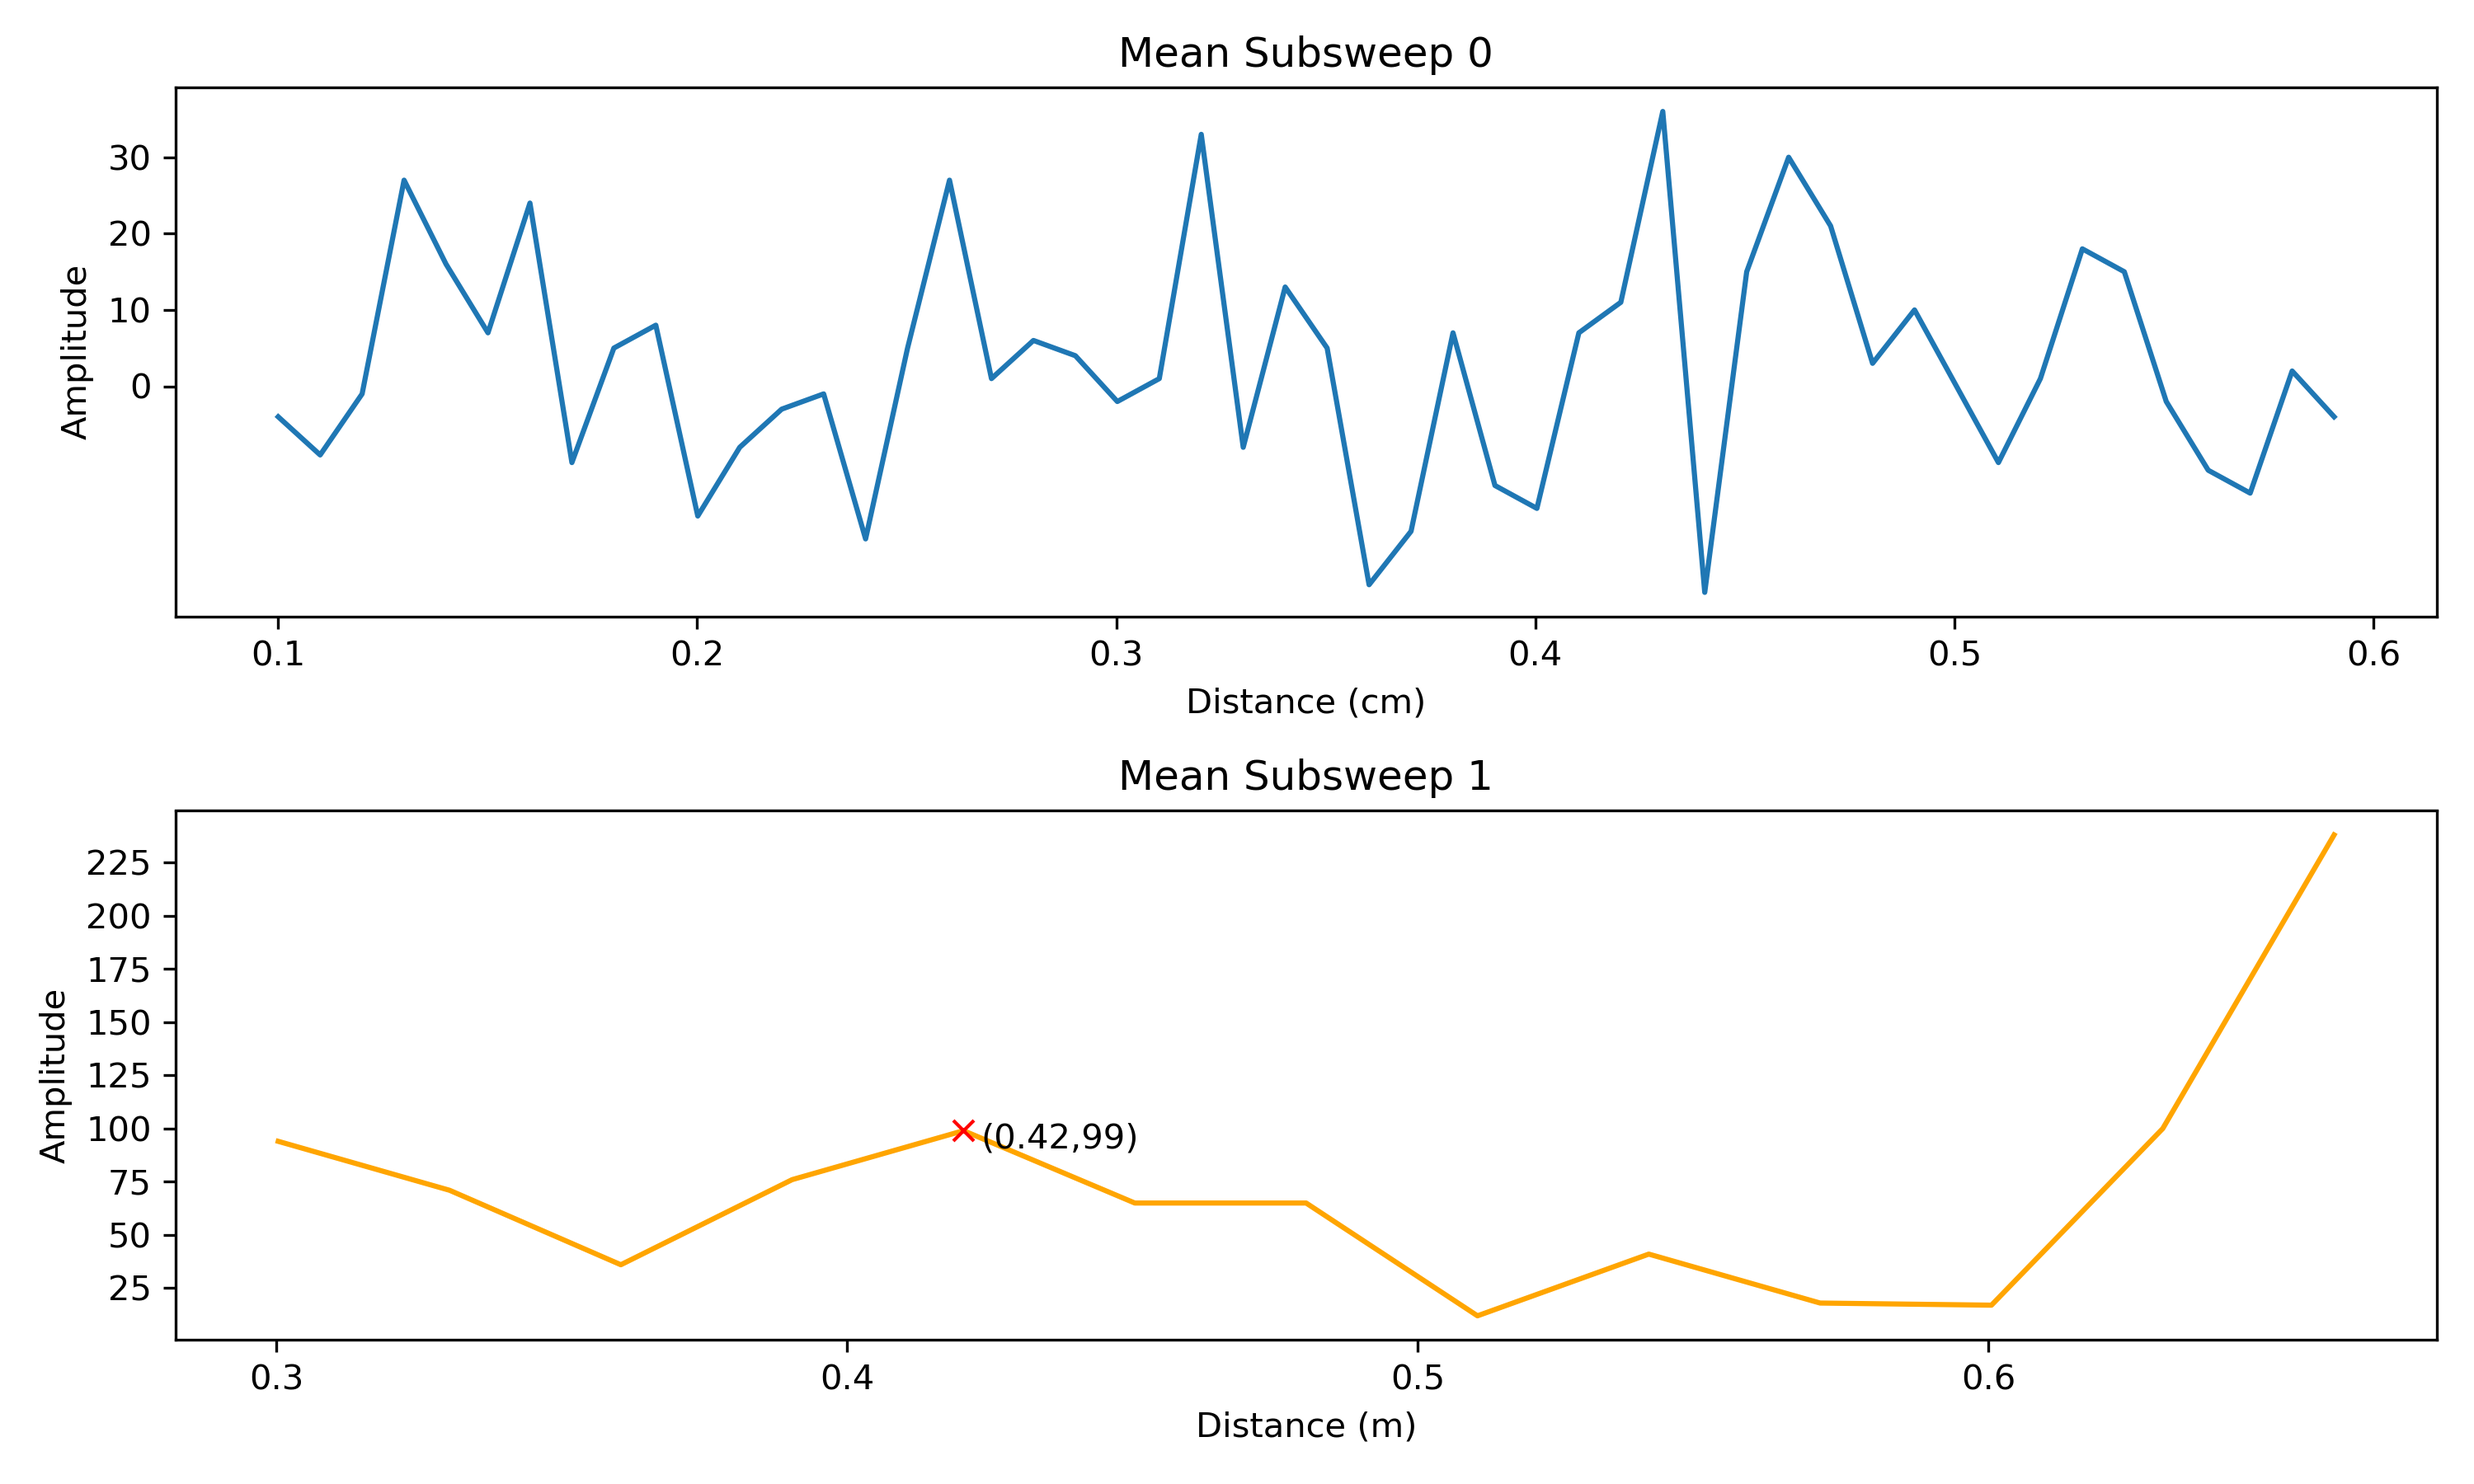
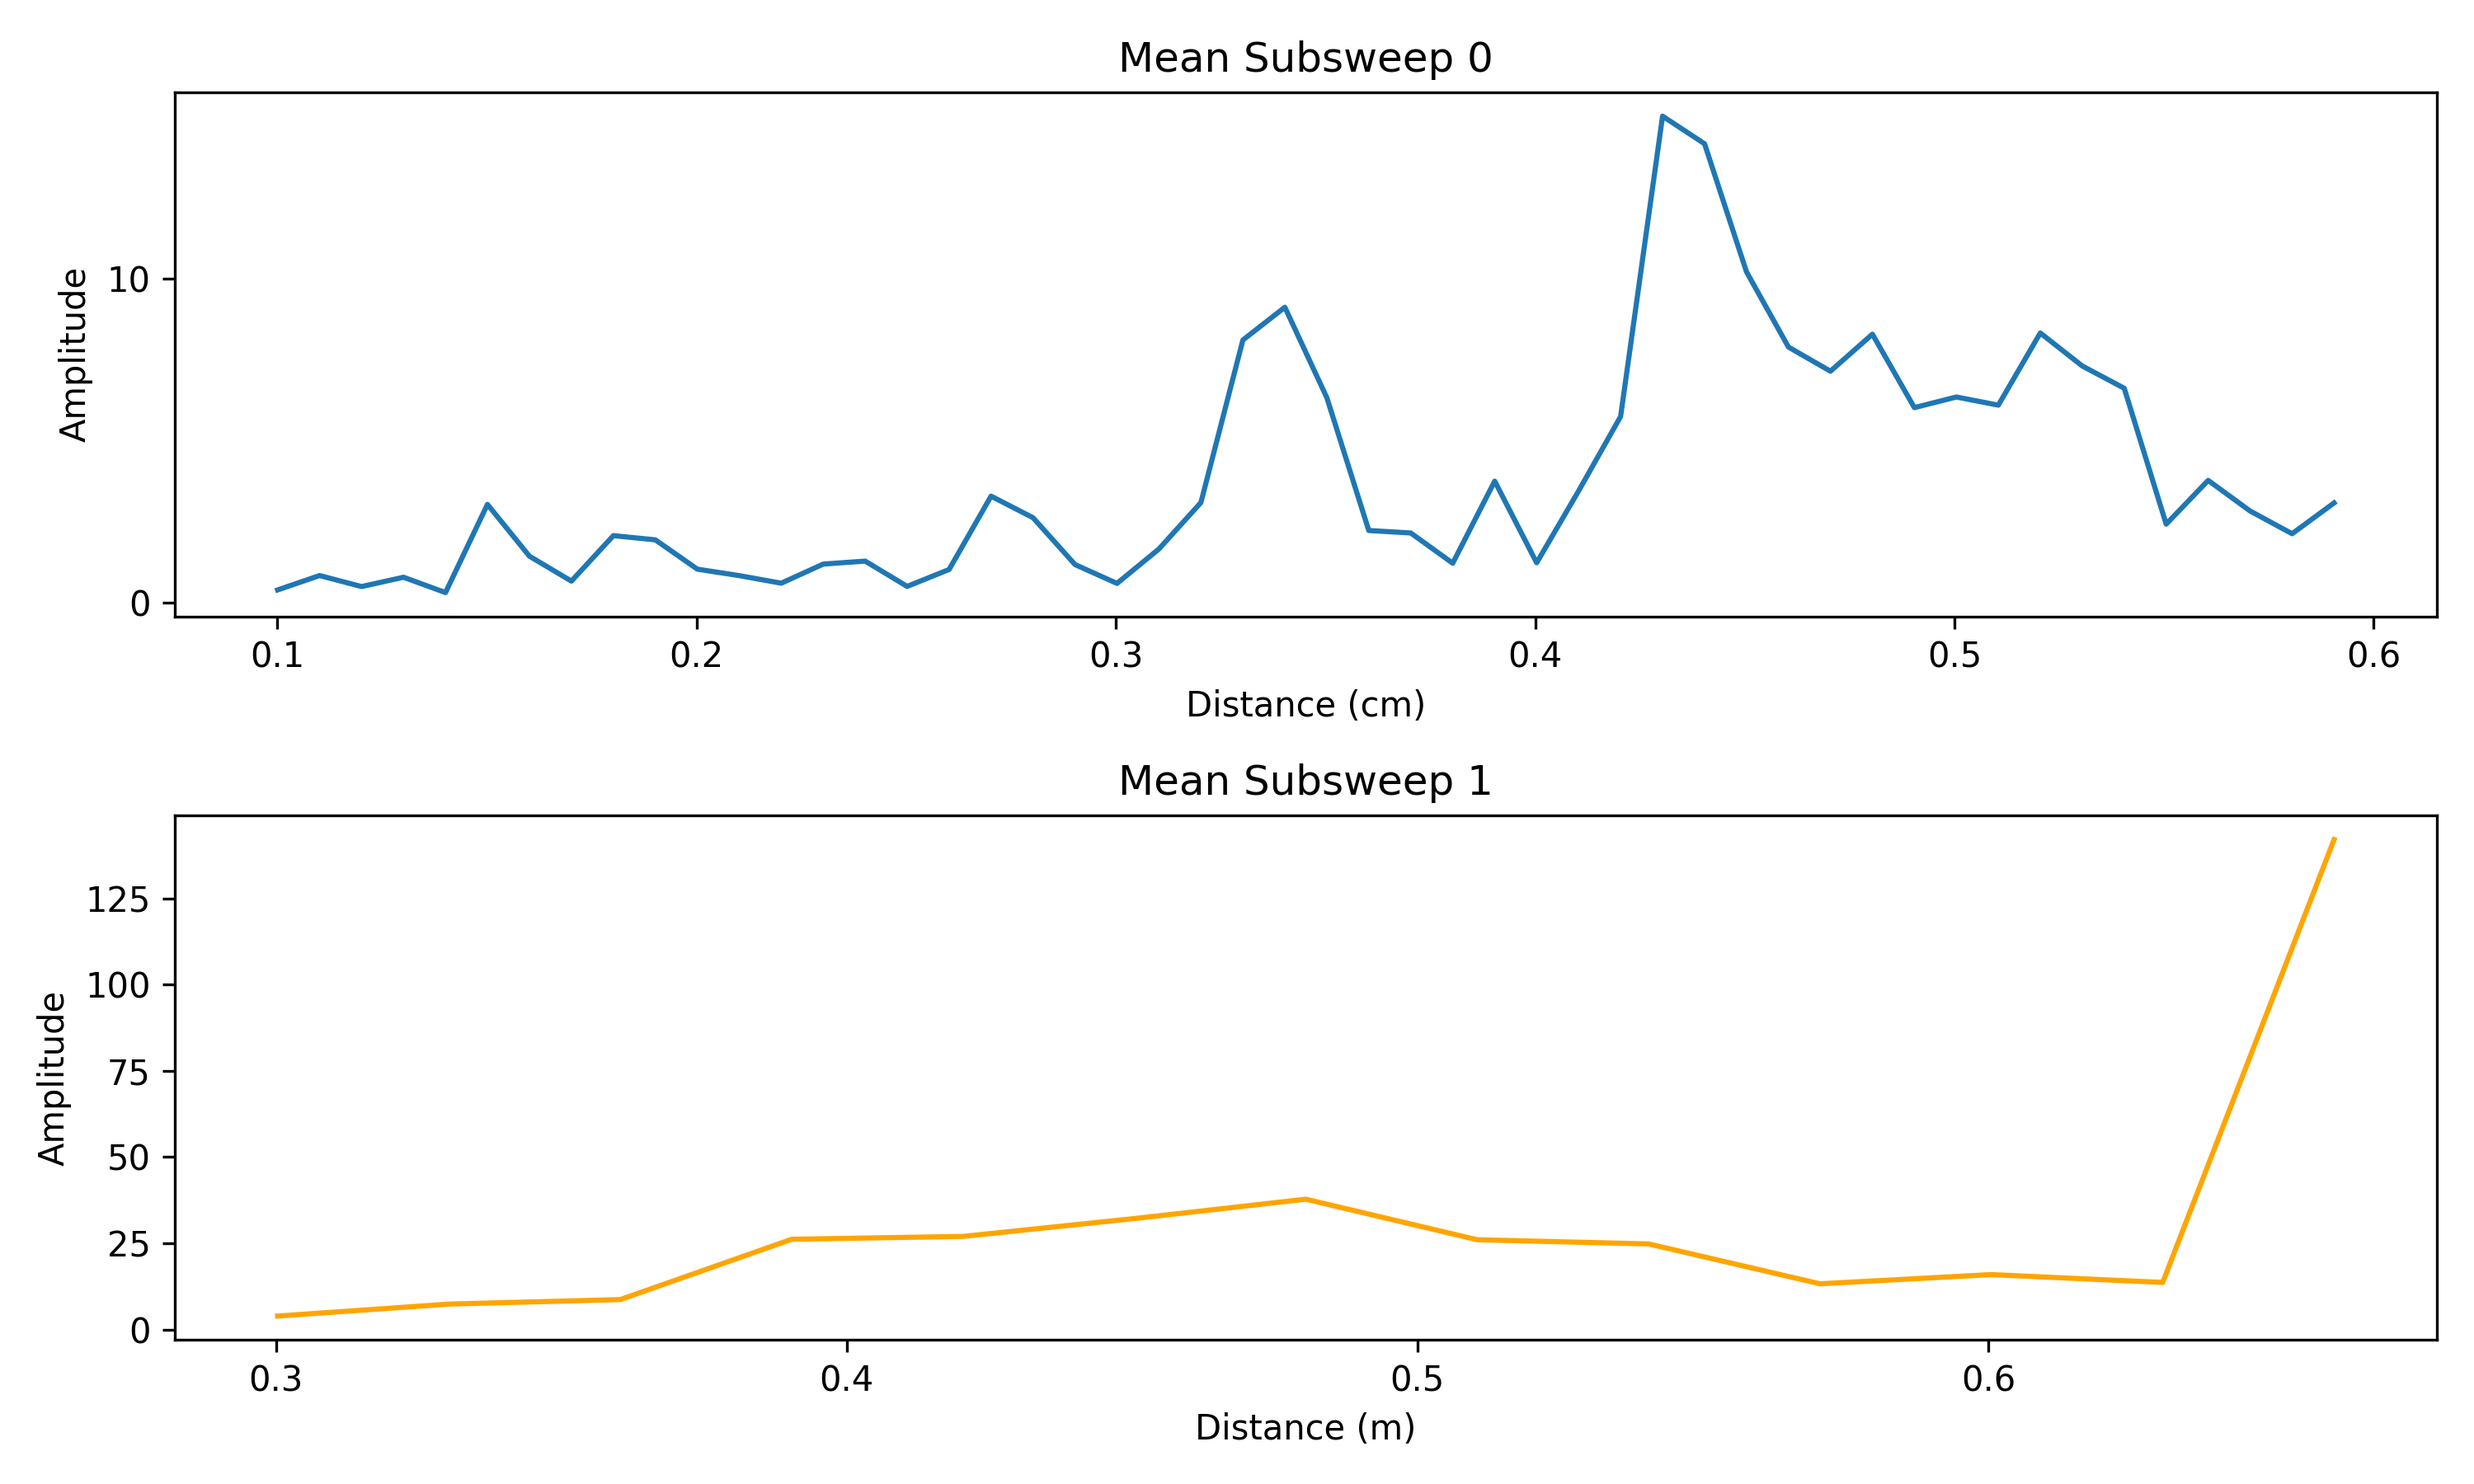
vector subtraction instead of raw amplitude for mean sweeps implemented

diff --git a/radar/data_plotting.py b/radar/data_plotting.py
@@ -1,29 +1,30 @@
 import matplotlib.pyplot as plt
 import numpy as np
 from scipy.signal import find_peaks
+import math
 
 fileName = "./output/t1_data"
 
 x0Axis = []
 x1Axis = []
-baselineY0Axis = []
-baselineY1Axis = []
 
 def getBaselineSweep(f):
-    baselineSubsweep0 = {}
-    baselineSubsweep1 = {}
+    subsweep0 = {}
+    subsweep1 = {}
     distanceXAxis = [];
     amplitudeSweep0 = [];
     amplitudeSweep1 = []
+    baselineSubsweep0 = {}
+    baselineSubsweep1 = {}
     distance = ""
-    amplitude = ""
+    IQVal = ""
     index = 0;
     subsweepIndex = 0
     with open(f) as file: 
         for x in file:
             chars = [*x]
             if chars[2] == 'd' or chars[0] == 'E':
-                break
+                continue
             if (chars[9].isdigit()):
                 subsweepIndex = int(chars[9])
             if chars[0].isdigit():
@@ -32,42 +33,36 @@ def getBaselineSweep(f):
                     distance += chars[y]
                 if (float(distance) < 0.1):
                     distance = ""
-                    amplitude = ""
+                    IQVal = ""
                     continue
                 #print(float(distance))
                 if (subsweepIndex == 0):
-                    baselineSubsweep0.setdefault(float(distance), [])
+                    subsweep0.setdefault(float(distance), [])
                 if (subsweepIndex == 1):
-                    baselineSubsweep1.setdefault(float(distance), [])
-                i = x.rfind(']')
-                i += 3
-                while chars[i] != ',':
-                    amplitude += chars[i]
+                    subsweep1.setdefault(float(distance), [])
+                i = x.rfind('[')
+                i += 1
+                while chars[i] != ']':
+                    IQVal += chars[i]
                     i += 1
-                print(amplitude)
                 if (subsweepIndex == 0):
-                    baselineSubsweep0[float(distance)].append(int(amplitude.strip()))
+                    subsweep0[float(distance)].append(IQVal.strip())
                 if (subsweepIndex == 1):
-                    baselineSubsweep1[float(distance)].append(int(amplitude.strip()))
+                    subsweep1[float(distance)].append(IQVal.strip())
                 #amplitudeYAxis.append(int(amplitude.strip()))
                 #index += 1
                 distance = ""
-                amplitude = ""
+                IQVal = ""
     f = fileName + "_plot.png"
     x0Axis = []
     x1Axis = []
-    for key, value in baselineSubsweep0.items():
-        x0Axis.append(key)
-        baselineY0Axis.append(np.mean(value))
+    baselineSubsweep0 = getMeanIQValues(subsweep0)
+    baselineSubsweep1 = getMeanIQValues(subsweep1)
+    return baselineSubsweep0, baselineSubsweep1
 
-    for key, value in baselineSubsweep1.items():
-            x1Axis.append(key)
-            baselineY1Axis.append(np.mean(value))
-
-
-def plotSweepsAvg(f):
+def plotSweepsAvg(f, baselineSubsweep0, baselineSubsweep1):
     distance = ""
-    amplitude = ""
+    IQVal = ""
     subsweep0 = {}
     subsweep1 = {}
     distanceXAxis = [];
@@ -79,18 +74,18 @@ def plotSweepsAvg(f):
         for x in file:
             chars = [*x]
             if chars[2] == 'd' or chars[0] == 'E':
-                break
+                continue
             if (chars[9].isdigit()):
                 subsweepIndex = int(chars[9])
             if chars[0].isdigit():
                 #print("passed check")
                 for y in range(8):
                     distance += chars[y]
-                if (float(distance) < 0.1):
-                    distance = ""
-                    amplitude = ""
-                    continue
                 #print(float(distance))
+                if float(distance) < 0.1:
+                    distance = ""
+                    IQVal = ""
+                    continue
                 if (subsweepIndex == 0):
                     subsweep0.setdefault(float(distance), [])
                 if (subsweepIndex == 1):
@@ -98,35 +93,43 @@ def plotSweepsAvg(f):
                 #print(subsweep0.keys())
                     #print(distance)
                 #distanceXAxis.append(float(distance.strip()))
-                i = x.rfind(']')
-                i += 3
-                while chars[i] != ',':
-                    amplitude += chars[i]
+                i = x.rfind('[')
+                i += 1
+                while chars[i] != ']':
+                    IQVal += chars[i]
                     i += 1
-                print(amplitude)
                 if (subsweepIndex == 0):
-                    subsweep0[float(distance)].append(int(amplitude.strip()))
+                    subsweep0[float(distance)].append(IQVal.strip())
                 if (subsweepIndex == 1):
-                    subsweep1[float(distance)].append(int(amplitude.strip()))
+                    subsweep1[float(distance)].append(IQVal.strip())
                 #amplitudeYAxis.append(int(amplitude.strip()))
                 #index += 1
                 distance = ""
-                amplitude = ""
+                IQVal = ""
     f = fileName + "_plot.png"
     x0Axis = []
     y0Axis = []
     x1Axis = []
     y1Axis = []
+    newSubsweep0 = getMeanIQValues(subsweep0)
+    newSubsweep1 = getMeanIQValues(subsweep1)
+    print(subsweep0.items())
     for key, value in subsweep0.items():
         x0Axis.append(key)
-        y0Axis.append(np.mean(value))
+        newITerm = newSubsweep0[key][0] - baselineSubsweep0[key][0]
+        newQTerm = newSubsweep0[key][1] - baselineSubsweep0[key][1]
+        amplitude = math.sqrt((newITerm ** 2) + (newQTerm ** 2));
+        y0Axis.append(amplitude)
 
     for key, value in subsweep1.items():
-            x1Axis.append(key)
-            y1Axis.append(np.mean(value))
+        x1Axis.append(key)
+        newITerm = newSubsweep1[key][0] - baselineSubsweep1[key][0]
+        newQTerm = newSubsweep1[key][1] - baselineSubsweep1[key][1]
+        amplitude = math.sqrt((newITerm ** 2) + (newQTerm ** 2));
+        y1Axis.append(amplitude)    
 
-    y0Axis = getAdjustedAmplitudes(x0Axis, y0Axis)
-    y1Axis = getAdjustedAmplitudes(x1Axis, y1Axis)
+    # y0Axis = getAdjustedAmplitudes(x0Axis, y0Axis)
+    # y1Axis = getAdjustedAmplitudes(x1Axis, y1Axis)
 
     plt.figure(1)
     fig, axs = plt.subplots(2, 1, figsize=(10, 6))
@@ -165,19 +168,42 @@ def plotSweepsAvg(f):
     plt.tight_layout()
     plt.savefig(f, dpi=300)
 
-def getAdjustedAmplitudes(x, y): 
-    newAmplitudes = []
-    index = 0
-    for yVal in y:
-        newAmplitudes.append(yVal - baselineY0Axis[index])
-        index += 1
-    return newAmplitudes
+# def getAdjustedAmplitudes(x, y): 
+#     newAmplitudes = []
+#     index = 0
+#     for yVal in y:
+#         newAmplitudes.append(yVal - baselineY0Axis[index])
+#         index += 1
+#     return newAmplitudes
 
-
-
+def getMeanIQValues(subsweep):
+    iTerm = 0
+    QTerm = 0
+    TermCounter = 0
+    temp = {}
+    for key, value in subsweep.items():
+        temp.setdefault(key, [])
+        for IQVal in value:
+            if (IQVal.rfind("+") == -1):
+                i = IQVal.rfind("-")
+                iTerm += int(IQVal[0:i])
+                TermCounter += 1
+                #print(IQVal[0:i])
+            else:
+                i = IQVal.rfind("+")
+                TermCounter += 1;  
+                iTerm += int(IQVal[0:i])   
+                #print(IQVal[0: i])   
+            QTerm += int(IQVal[i: len(IQVal) - 1])
+        temp[key].append(iTerm / TermCounter)
+        temp[key].append(QTerm / TermCounter)
+        TermCounter = 0
+        QTerm = 0
+        iTerm = 0    
+    #print(temp.items())
+    return temp
 plt.clf()
-getBaselineSweep("./output/t1_data_empty_scene.txt")
-plotSweepsAvg(fileName + ".txt")
+base0, base1 = getBaselineSweep("./output/t1_data_empty_scene.txt")
+plotSweepsAvg(fileName + ".txt",  base0, base1)
 #print("b: " + str(len(baselineY0Axis)))
-
 
